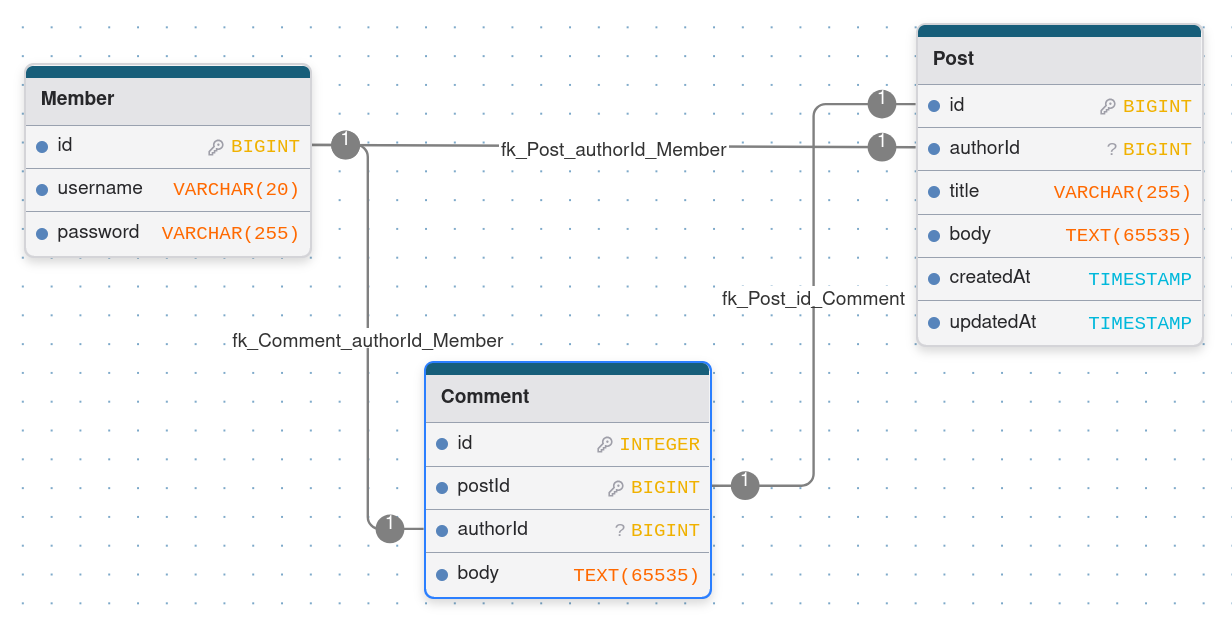
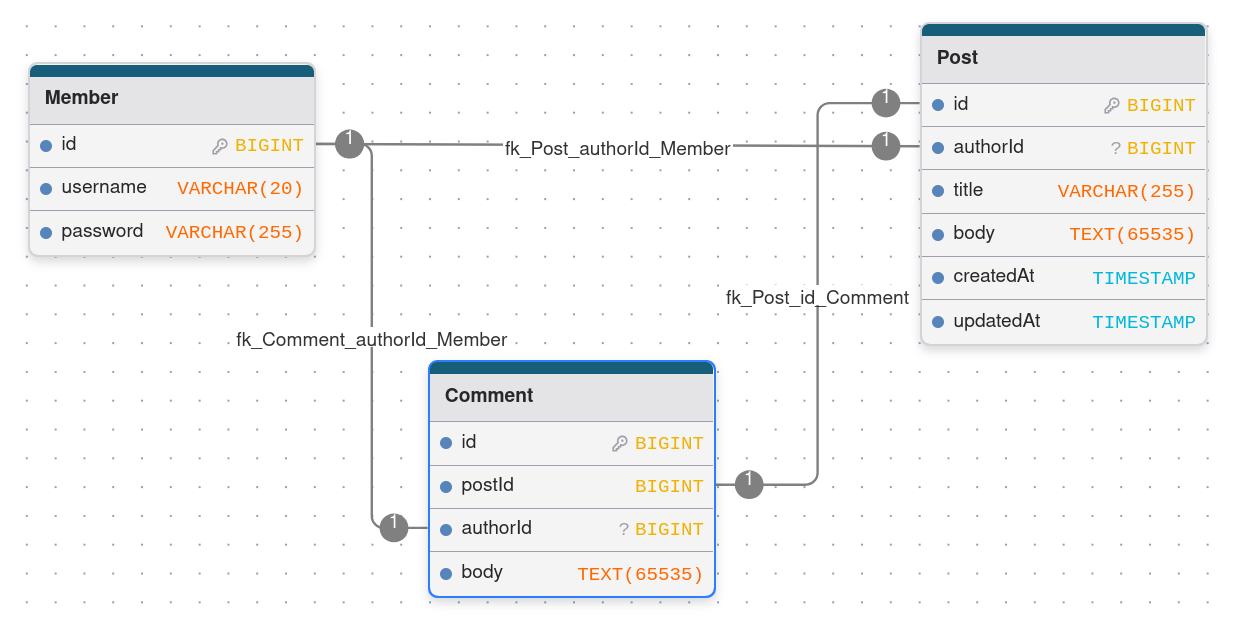
feat(backend): Add DB integration for dev profile

Changed region(s): [[0.0, 0.0303, 0.987, 0.9682]]

diff --git a/docs/decision.md b/docs/decision.md
@@ -505,3 +505,48 @@ Post / Comment
 | TEXT | 65,535 bytes | 64 KiB |
 | MEDIUMTEXT | 16,777,215 bytes | 16 MiB |
 | LONGTEXT | 4,294,967,295 bytes | 4 GiB |
+
+### Comment ID
+
+원래는 Comment ID의 기본키를 (Post ID, Per-post ID)로 정의하려고 했다.  
+사용자 입장에서는 이게 가장 직관적이었기 때문이다.  
+어떤 게시글이든 그 게시글의 n번째 댓글의 ID가 n인 것이 가장 말이 된다.
+
+하지만 이런 `group-wise auto increment`는 생성하기 굉장히 어렵다는 것을 알게 되었다.  
+가장 대중적인 PostgreSQL, MariaDB를 봐도 이 기능을 제대로 지원해주지는 않는다. (MariaDB의 MyISAM 엔진은 지원하지만 그 대가로 포기해야 되는 기능이 너무 많다)
+
+굳이 구현해야겠다면 DB 내 `trigger`를 만들어 Comment 삽입 시 `max(id) + 1 WHERE postID = %`로 만들 수는 있지만 삽입 시 부하가 걸리고 race condition이 발생한다. Transaction은 각 요청의 원자성을 보장하지만 요청의 순차적 처리는 보장하지 않기 때문에 `max(id)`를 조회하는 순간과 새로운 id의 Comment가 삽입되는 순간 사이에 다른 Comment 삽입 요청이 처리될 수 있다. Race condition을 해결하기 위해 postID별 lock을 잡으면 부하는 더 커진다.
+
+> DB에서 per-group sequence를 생성하기 어려우니 global sequence를 사용해야 하는데, 이때 사용자에게는 여전히 per-group sequence를 제공할 수는 없을까?
+>
+>
+> DB에 저장되는 Comment Entity가 동일 Post ID에 대해 Comment ID가 strictly increasing이면 동일 Post ID의 Comment 목록에서의 순번을 사용자에게 ID로 제공할 수 있다.
+> 
+> | 외부 ID | 1 | 2 | 3 | 4 | 5 | 6 | 7 | 8 |
+> | --- | --- | --- | --- | --- | --- | --- | --- | --- |
+> | 내부 ID | 3 | 5 | 8 | 11 | 21 | 28 | 33 | 41 |
+>
+> 반대로 사용자의 요청에서 A번부터 N개의 댓글을 조회하려고 한다면 이렇게 다시 찾을 수 있을 것이다.
+>
+> ```sql
+> SELECT * FROM comments WHERE 게시글 ID = % ORDER BY id ASC LIMIT N OFFSET A
+> ```
+
+게시판 시스템에서 댓글을 조회할 때 하나의 댓글을 요청하는 경우는 보통 없다. 어차피 페이지 단위로 요청하거나 전체를 요청할 테니 N이 너무 작아서 정렬하는 페널티가 안 할 때보다 큰 경우는 없을 것이다.
+
+그러나 한 게시글에 댓글이 폭증하여 OFFSET이 커질 경우에는 조회에 성능 저하가 발생할 수 있다. 댓글이 삭제되지 않기 때문에 N번째 댓글의 ID는 항상 동일할 것이고 순번 -> ID 캐싱이 가능하다. 요구사항에서 이 경우를 고려하지는 않았지만 필요해진다면 새로운 lookup 테이블을 만들어 X개의 댓글마다 순번과 내부 댓글 ID를 저장하면 될 것이다.
+
+> 정확히 언제부터 얼마씩 캐싱해야 하는지는 모니터링으로 측정해야 되겠지만 아래는 단순한 예시다.
+>
+> | 게시글 ID | 댓글 순번 |  댓글 ID  |
+> | --- | --- | --- |
+> | 42 | 10,000 | 234,567 |
+> | 42 | 20,000 | 6,542,232 |
+>
+> `GET /posts/42/comments?offset=23675&limit=25`
+>
+> ```sql
+> SELECT * FROM comments WHERE 게시글 ID = 42 AND id >= (
+>     SELECT 댓글 ID FROM comment_lut WHERE 게시글 ID = 42 AND 댓글 순번 = 20,000
+> ) ORDER BY id ASC LIMIT 25 OFFSET 3,675
+> ```
